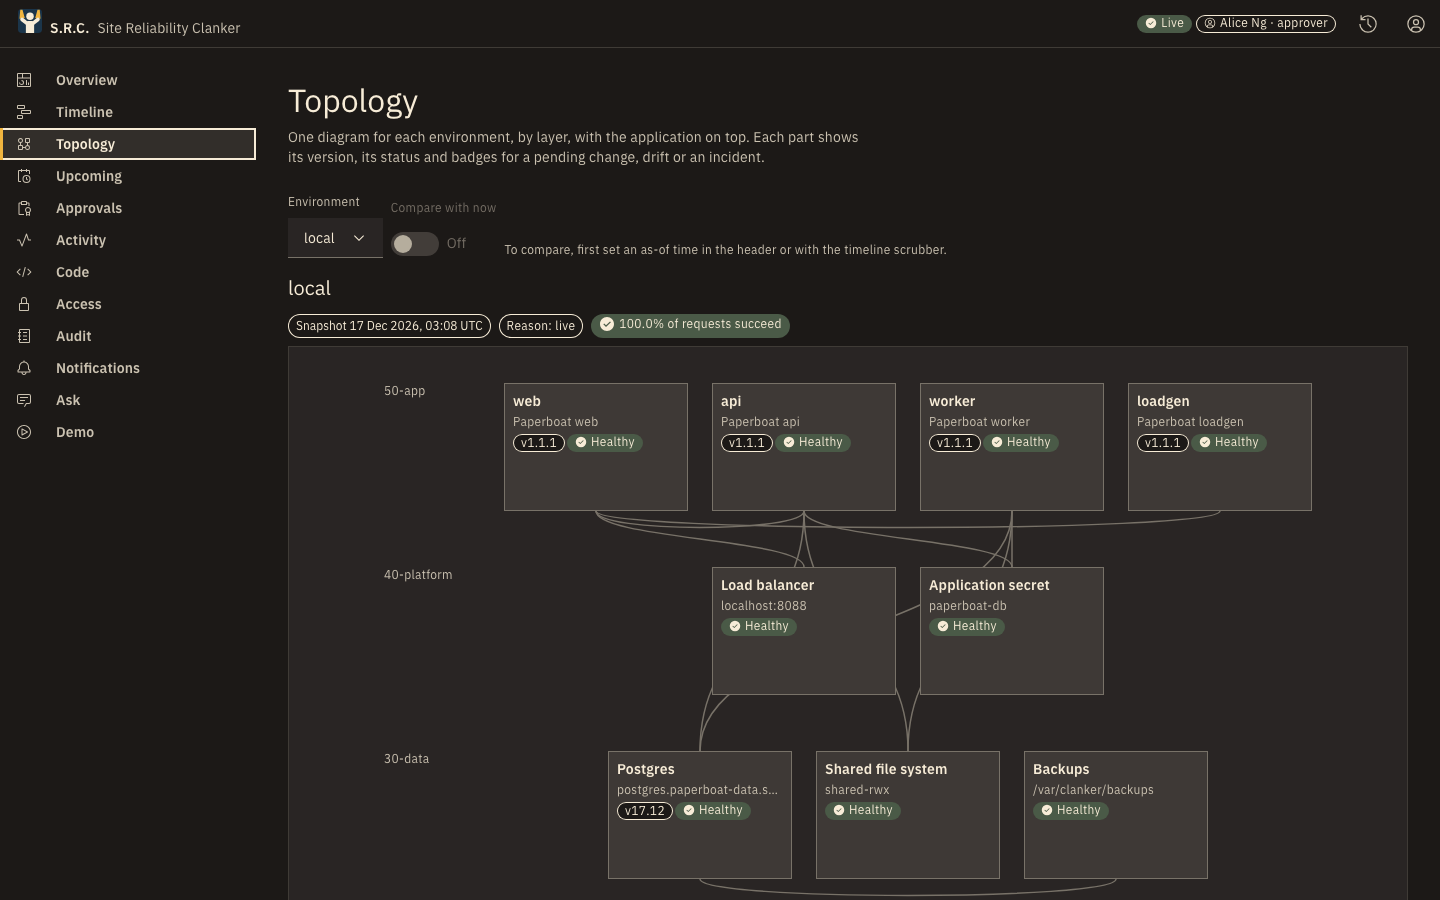
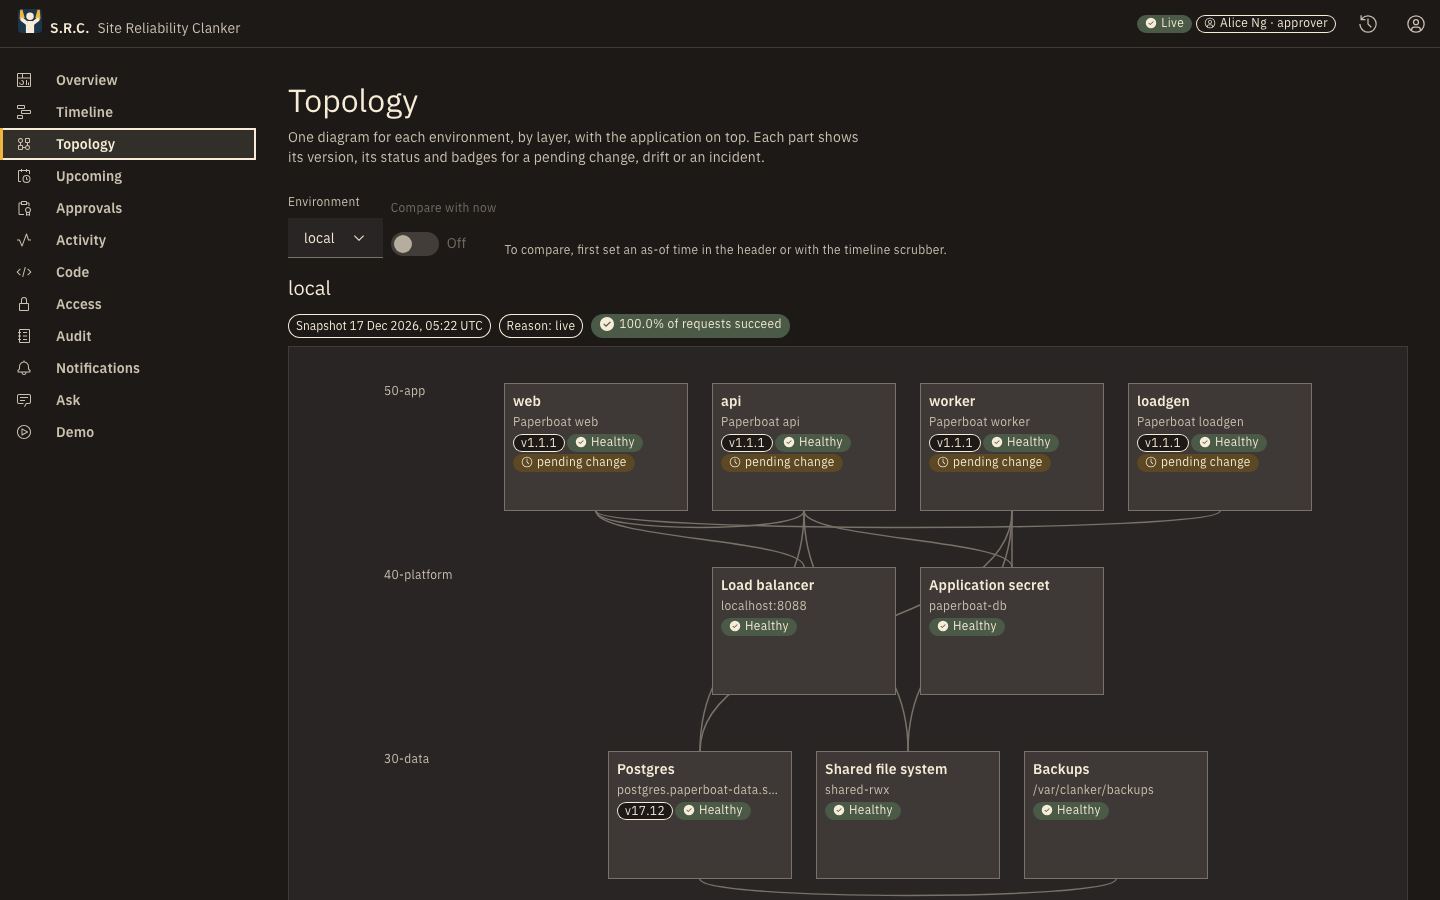
Take the pictures again with a change that waits for approval
The demo had no change that waited, so the picture of the work item page showed a finished one. A hand-written change now waits, the page has the title Approval page again, and the webhook sink has its payloads.

diff --git a/site/screens.html b/site/screens.html
@@ -34,7 +34,7 @@
     </div>
     <div class="wrap">
       <!-- build:gallery -->
-<p class="figure-source">Captured on 2026-11-17 with
+<p class="figure-source">Captured on 2026-11-18 with
 Playwright. Nothing on this page is a mock-up.</p><section class="gallery-group" aria-labelledby="group-dashboard">
 <h2 id="group-dashboard">The S.R.C. dashboard</h2>
 <p class="section-lead">Six views of the dashboard that the control plane serves, as an approver sees them.</p>
@@ -49,10 +49,10 @@ width="1440" height="900" loading="lazy"></a>
 <figcaption><strong>Timeline</strong>
 <span class="shot-note">The work of the past weeks by layer, and the maintenance that is coming.</span></figcaption>
 </figure><figure class="shot">
-<a href="screens/dashboard-work-item.png"><img src="screens/dashboard-work-item.png" alt="The S.R.C. dashboard: work item page, after the decision."
-width="1440" height="3518" loading="lazy"></a>
-<figcaption><strong>Work item page, after the decision</strong>
-<span class="shot-note">A finished change: the summary, the impact, the tier, the plan, and who approved it. No change waited for a decision when this picture was taken.</span></figcaption>
+<a href="screens/dashboard-work-item.png"><img src="screens/dashboard-work-item.png" alt="The S.R.C. dashboard: approval page."
+width="1440" height="3377" loading="lazy"></a>
+<figcaption><strong>Approval page</strong>
+<span class="shot-note">A change that waits for a decision: the summary, the impact, the tier, the plan, and the buttons to decide.</span></figcaption>
 </figure><figure class="shot">
 <a href="screens/dashboard-topology.png"><img src="screens/dashboard-topology.png" alt="The S.R.C. dashboard: topology."
 width="1440" height="900" loading="lazy"></a>
@@ -110,7 +110,7 @@ width="1440" height="900" loading="lazy"></a>
 <a href="screens/webhook-sink.png"><img src="screens/webhook-sink.png" alt="The webhook sink page: a list of the chat notifications that S.R.C. sent."
 width="1440" height="900" loading="lazy"></a>
 <figcaption><strong>Webhook sink</strong>
-<span class="shot-note">A local stand-in for Slack, Microsoft Teams and Discord, with the real payloads. This picture is from an earlier run: the sink was empty when the other pictures were taken.</span></figcaption>
+<span class="shot-note">A local stand-in for Slack, Microsoft Teams and Discord, with the real payloads.</span></figcaption>
 </figure></div>
 </section>
 <!-- /build:gallery -->
